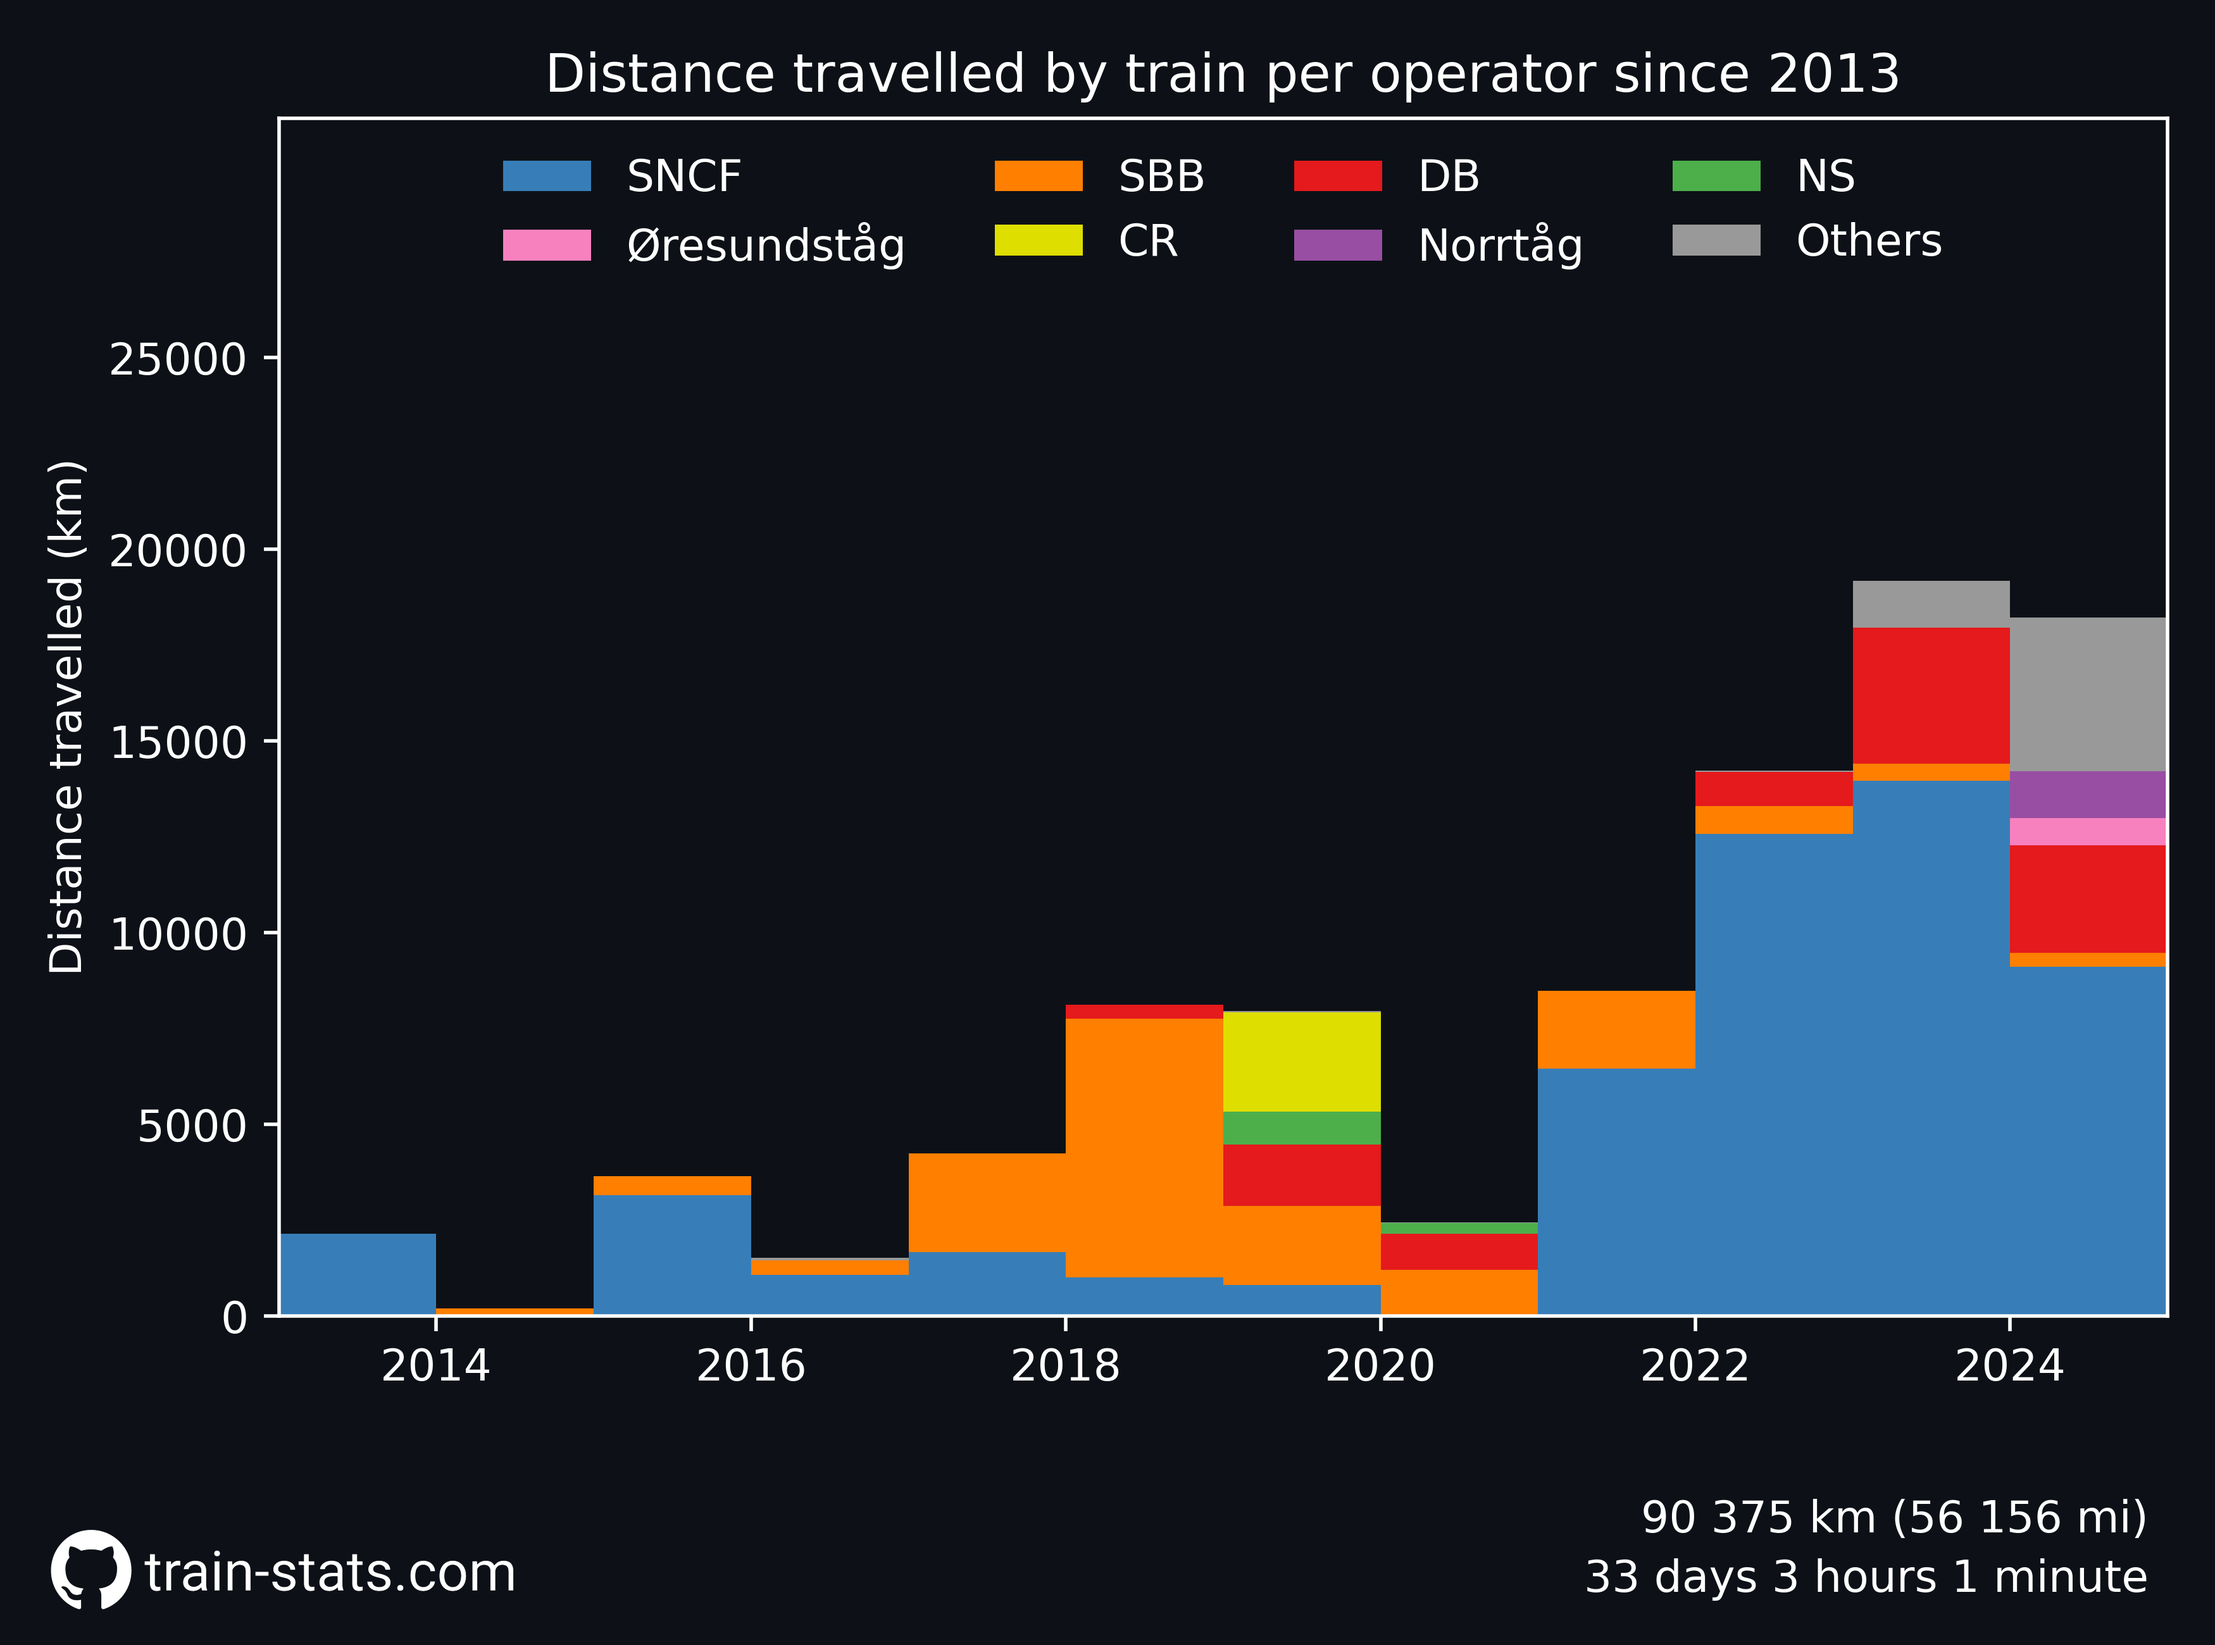
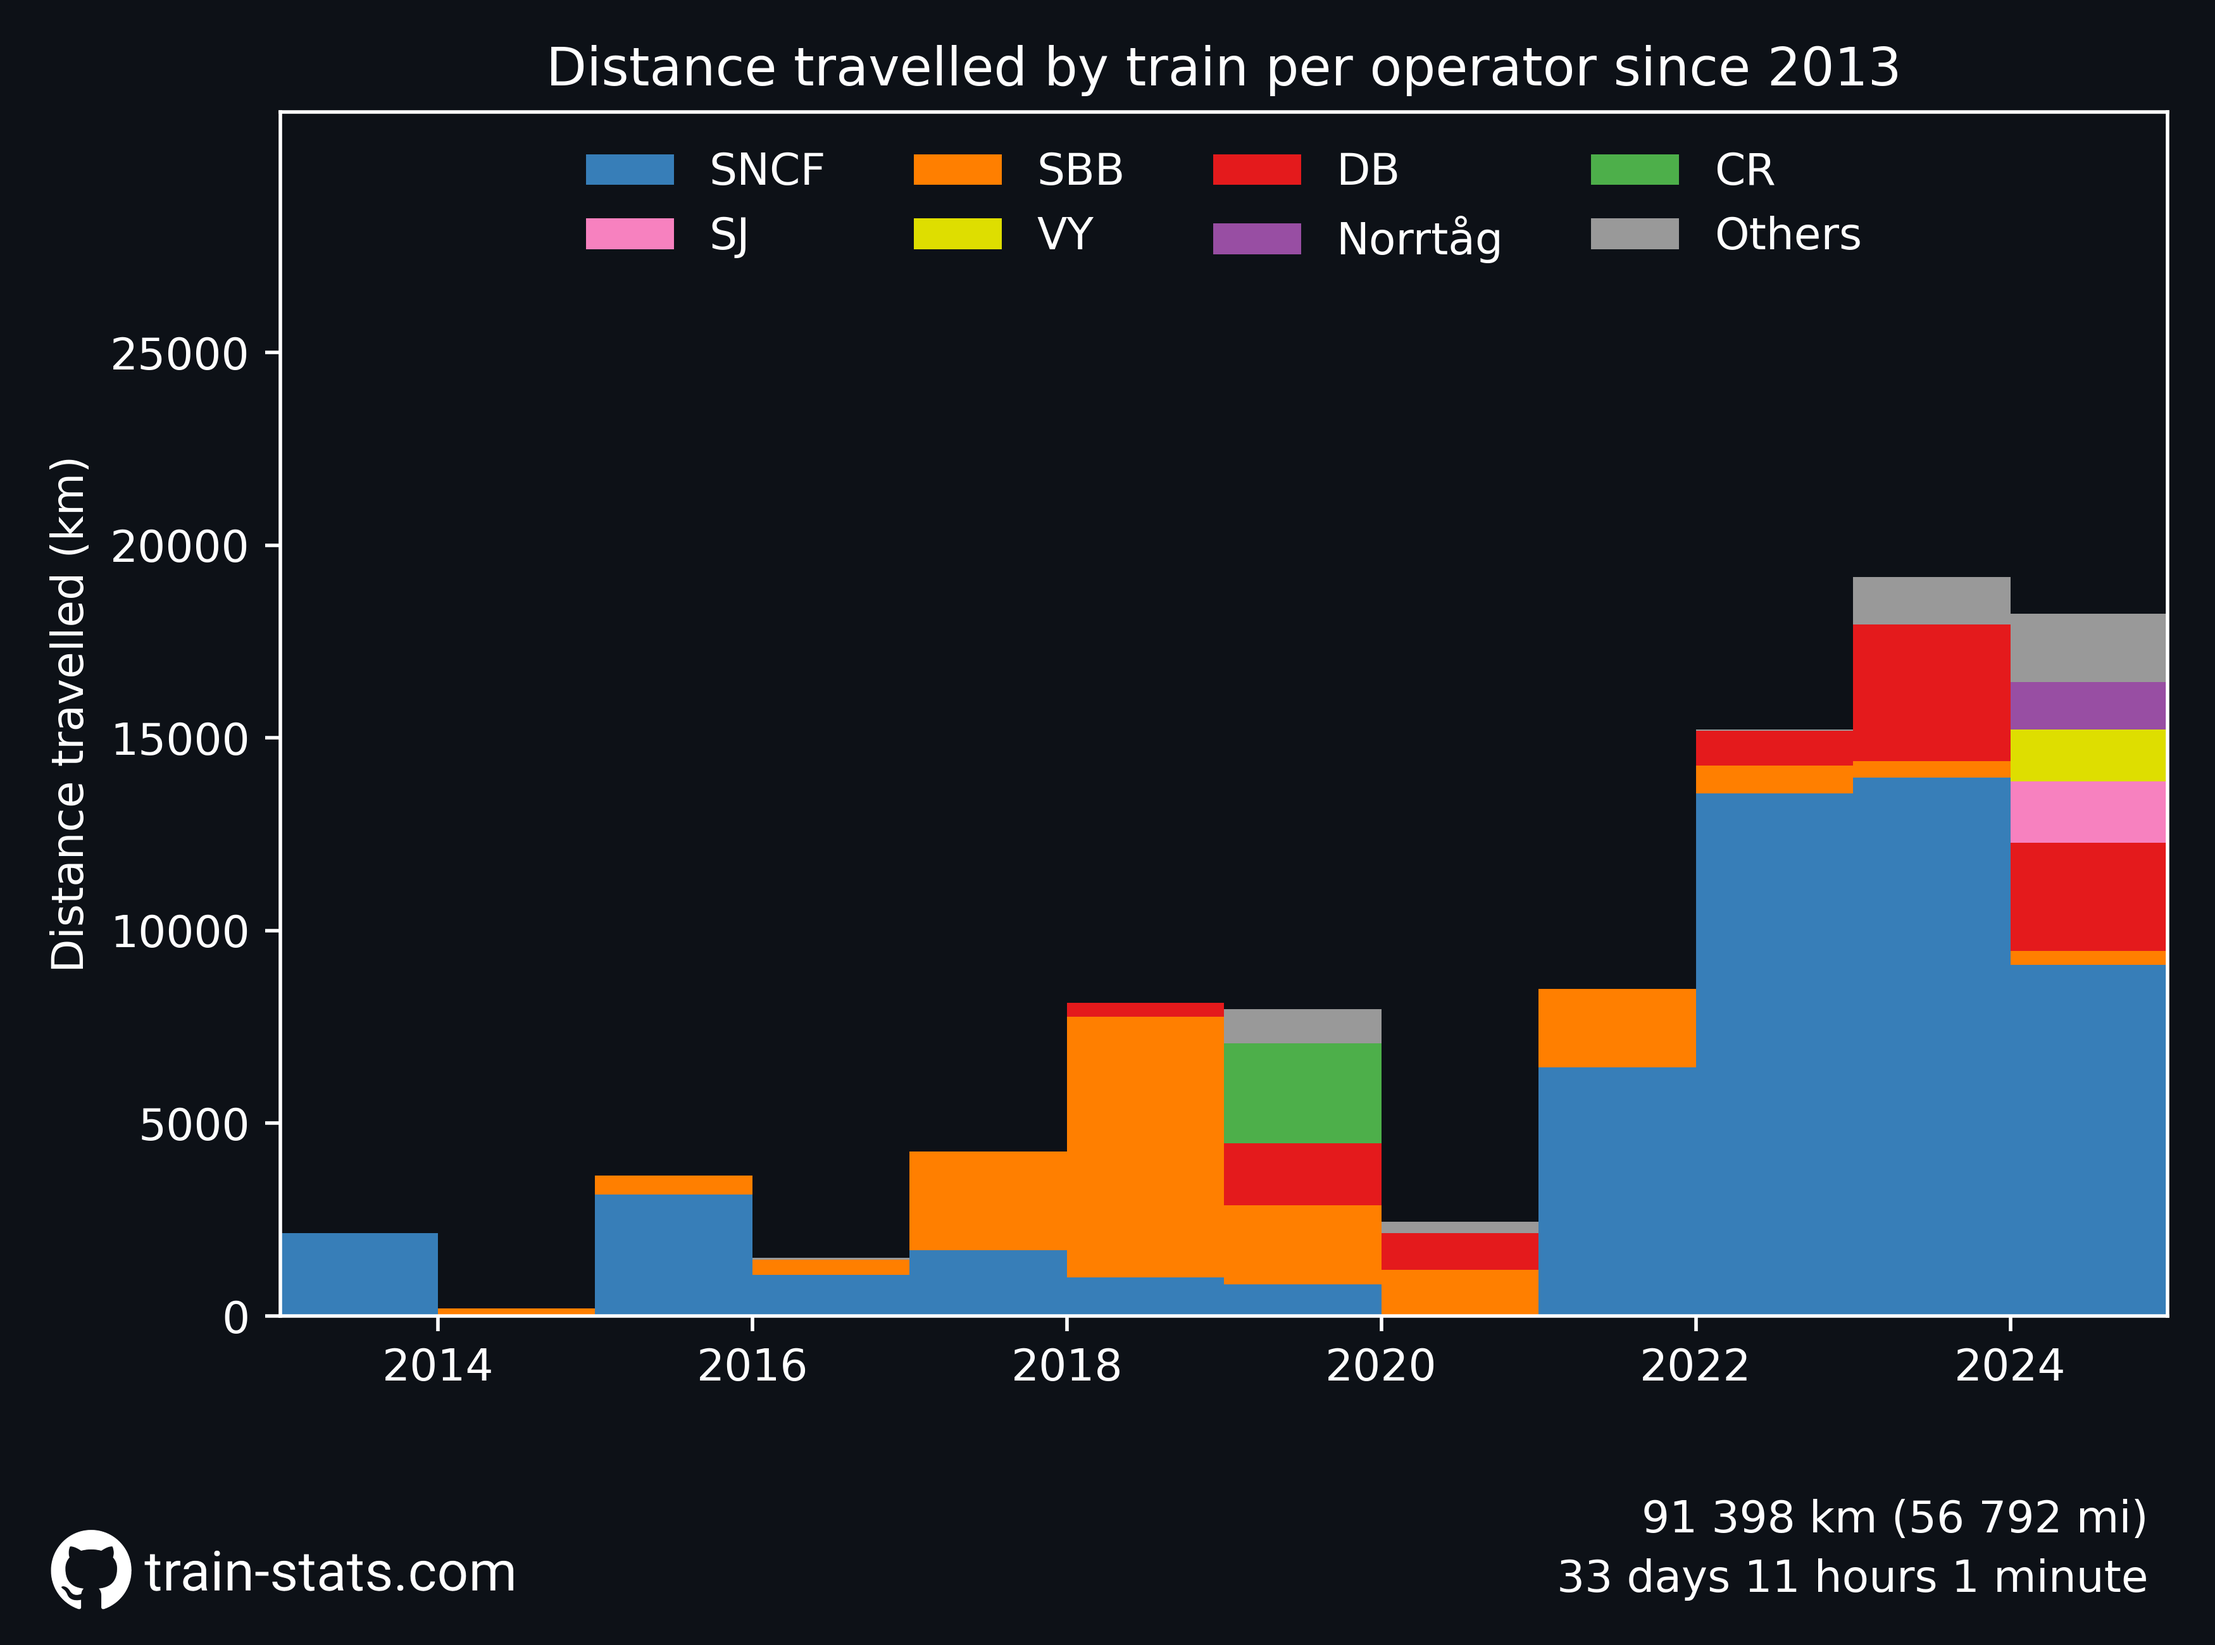
update operator selection code

diff --git a/src/plotsCodes/duration_per_operator_stacked.py b/src/plotsCodes/duration_per_operator_stacked.py
@@ -11,6 +11,7 @@ from datetime import datetime
 import matplotlib.pyplot as plt
 
 import numpy as np
+import pandas as pd
 
 
 # Plot of km travelled by train operator
@@ -22,7 +23,21 @@ def plot_duration_per_operator_stacked(trips):
     bottom = np.zeros(len(years))
 
     operators = past_trips["Operator"].copy()
-    operators_sorted = operators.value_counts().index.tolist()
+    all_operators = operators.unique().tolist()
+    operators_duration = []
+    for operator in all_operators:
+        operators_duration.append(
+            past_trips.loc[operators == operator]["Duration"].sum().total_seconds()
+        )
+
+    operators_distance = np.array(operators_duration)
+    operators_distance_df = pd.DataFrame(
+        {"Operator": all_operators, "Distance": operators_distance}
+    )
+
+    operators_sorted = operators_distance_df.sort_values(
+        by="Distance", ascending=False
+    ).Operator.tolist()
     operators_selected = operators_sorted[0:7]
     operators.loc[~operators.isin(operators_selected)] = "Others"
     operators_selected.append("Others")

diff --git a/src/plotsCodes/distance_per_operator_stacked.py b/src/plotsCodes/distance_per_operator_stacked.py
@@ -10,6 +10,7 @@ from utils import (
 from datetime import datetime
 import matplotlib.pyplot as plt
 
+import pandas as pd
 import numpy as np
 
 
@@ -22,7 +23,21 @@ def plot_distance_per_operator_stacked(trips):
     bottom = np.zeros(len(years))
 
     operators = past_trips["Operator"].copy()
-    operators_sorted = operators.value_counts().index.tolist()
+    all_operators = operators.unique().tolist()
+    operators_distance = []
+    for operator in all_operators:
+        operators_distance.append(
+            past_trips.loc[operators == operator]["Distance (km)"].sum()
+        )
+
+    operators_distance = np.array(operators_distance)
+    operators_distance_df = pd.DataFrame(
+        {"Operator": all_operators, "Distance": operators_distance}
+    )
+
+    operators_sorted = operators_distance_df.sort_values(
+        by="Distance", ascending=False
+    ).Operator.tolist()
     operators_selected = operators_sorted[0:7]
     operators.loc[~operators.isin(operators_selected)] = "Others"
     operators_selected.append("Others")
